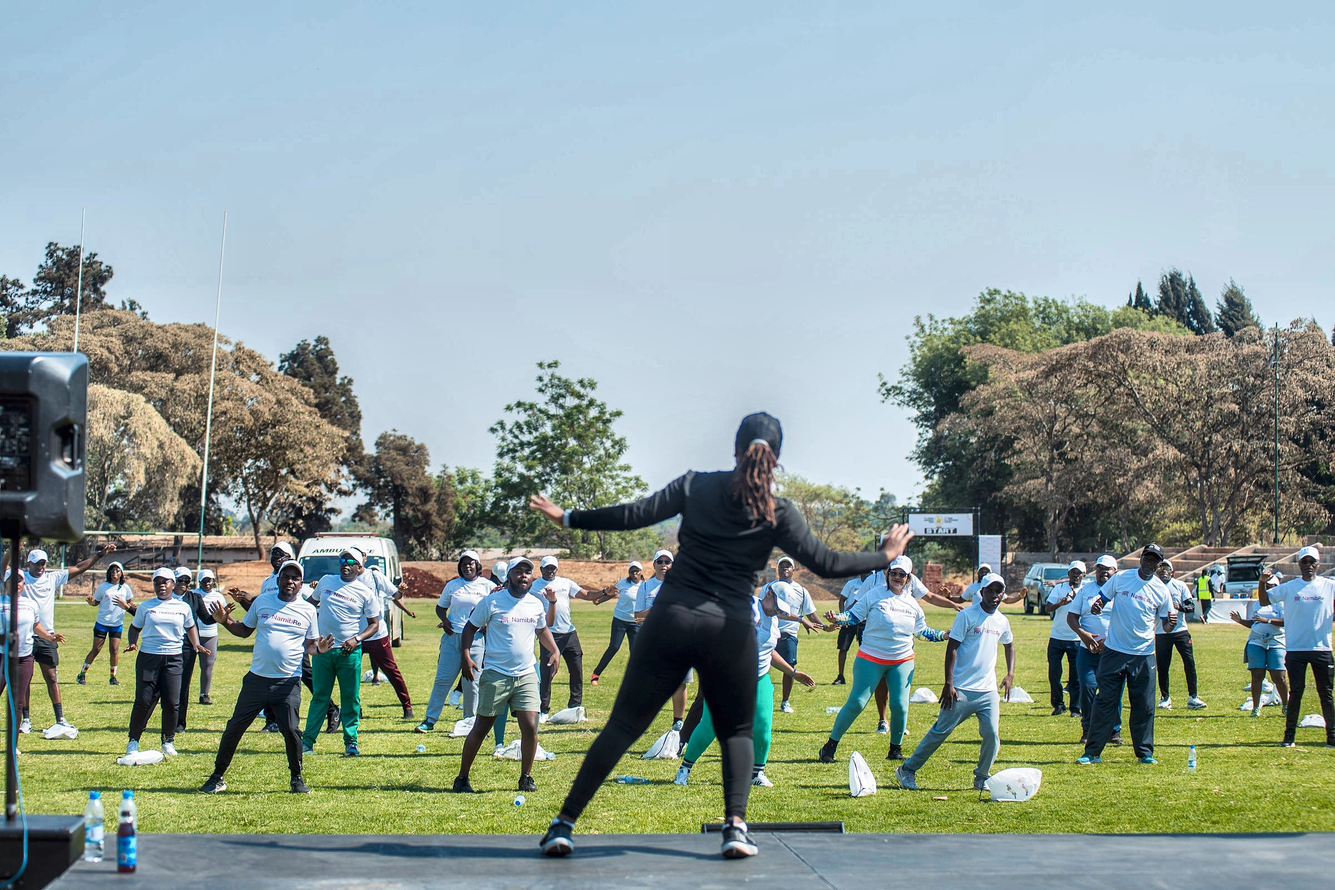
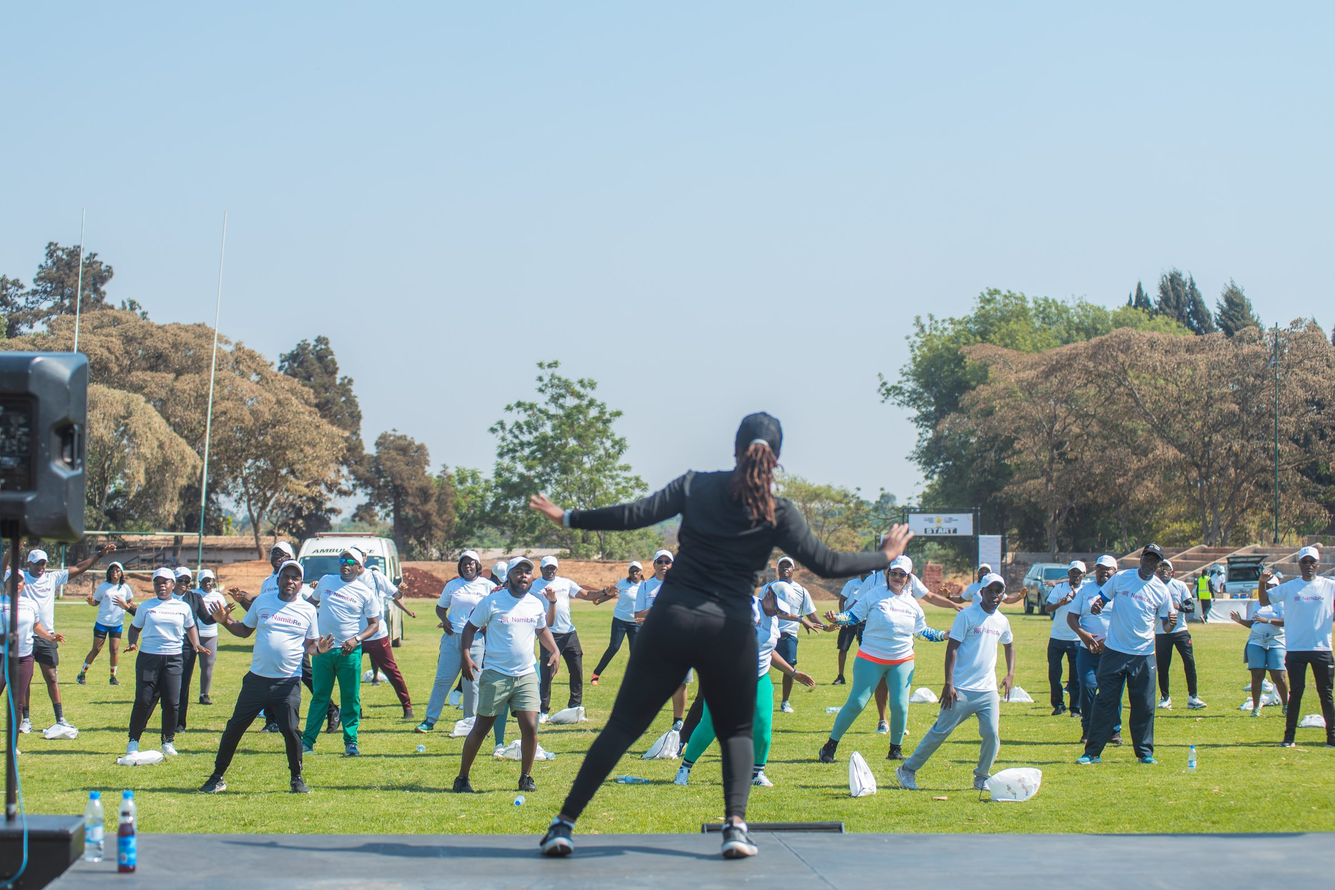
Revert the photography correction

Changed region(s): [[0.0, 0.2812, 1.0, 1.0], [0.7812, 0.9688, 0.8125, 1.0], [0.0312, 0.8125, 0.0625, 0.8438]]

diff --git a/src/content/media-manifest.ts b/src/content/media-manifest.ts
@@ -11,67 +11,46 @@ export interface ManifestEntry {
 
 export const mediaManifest: ManifestEntry[] = [
   {
-    "url": "/images/clouds (1).jpg",
-    "name": "clouds (1).jpg",
-    "folder": "",
-    "kind": "image",
-    "bytes": 1677077
-  },
-  {
-    "url": "/images/clouds (2).jpg",
-    "name": "clouds (2).jpg",
-    "folder": "",
-    "kind": "image",
-    "bytes": 1765254
-  },
-  {
-    "url": "/images/clouds (3).jpg",
-    "name": "clouds (3).jpg",
-    "folder": "",
-    "kind": "image",
-    "bytes": 1883569
-  },
-  {
     "url": "/images/events/fun-run-aerobics.jpg",
     "name": "fun-run-aerobics.jpg",
     "folder": "events",
     "kind": "image",
-    "bytes": 749418
+    "bytes": 518874
   },
   {
     "url": "/images/events/fun-run-finish.jpg",
     "name": "fun-run-finish.jpg",
     "folder": "events",
     "kind": "image",
-    "bytes": 773108
+    "bytes": 541200
   },
   {
     "url": "/images/events/fun-run-group.jpg",
     "name": "fun-run-group.jpg",
     "folder": "events",
     "kind": "image",
-    "bytes": 935660
+    "bytes": 654680
   },
   {
     "url": "/images/events/reinsurance-forum-delegates.jpg",
     "name": "reinsurance-forum-delegates.jpg",
     "folder": "events",
     "kind": "image",
-    "bytes": 847396
+    "bytes": 570173
   },
   {
     "url": "/images/events/reinsurance-forum-handshake.jpg",
     "name": "reinsurance-forum-handshake.jpg",
     "folder": "events",
     "kind": "image",
-    "bytes": 664829
+    "bytes": 454821
   },
   {
     "url": "/images/huletts/inflatable-pack.jpg",
     "name": "inflatable-pack.jpg",
     "folder": "huletts",
     "kind": "image",
-    "bytes": 290046
+    "bytes": 250374
   },
   {
     "url": "/images/icz-591/591-lockup.png",
@@ -85,7 +64,7 @@ export const mediaManifest: ManifestEntry[] = [
     "name": "ambulance-handover.jpg",
     "folder": "icz-591",
     "kind": "image",
-    "bytes": 664891
+    "bytes": 479715
   },
   {
     "url": "/images/icz-591/campaign-591.jpg",
@@ -106,7 +85,7 @@ export const mediaManifest: ManifestEntry[] = [
     "name": "launch-officials.jpg",
     "folder": "icz-591",
     "kind": "image",
-    "bytes": 554771
+    "bytes": 375727
   },
   {
     "url": "/images/icz-591/quarterly-digest.png",
@@ -120,7 +99,7 @@ export const mediaManifest: ManifestEntry[] = [
     "name": "spokespeople.jpg",
     "folder": "icz-591",
     "kind": "image",
-    "bytes": 492039
+    "bytes": 321188
   },
   {
     "url": "/images/logos/Clere for men logo-21.png",
@@ -218,56 +197,56 @@ export const mediaManifest: ManifestEntry[] = [
     "name": "eilts-amour.jpg",
     "folder": "medtech",
     "kind": "image",
-    "bytes": 320777
+    "bytes": 198806
   },
   {
     "url": "/images/medtech/eilts-enchante-macro.jpg",
     "name": "eilts-enchante-macro.jpg",
     "folder": "medtech",
     "kind": "image",
-    "bytes": 296083
+    "bytes": 190938
   },
   {
     "url": "/images/medtech/eilts-enchante.jpg",
     "name": "eilts-enchante.jpg",
     "folder": "medtech",
     "kind": "image",
-    "bytes": 434038
+    "bytes": 272128
   },
   {
     "url": "/images/medtech/eilts-grandiose.jpg",
     "name": "eilts-grandiose.jpg",
     "folder": "medtech",
     "kind": "image",
-    "bytes": 356010
+    "bytes": 215469
   },
   {
     "url": "/images/medtech/eilts-still-life.jpg",
     "name": "eilts-still-life.jpg",
     "folder": "medtech",
     "kind": "image",
-    "bytes": 282078
+    "bytes": 189780
   },
   {
     "url": "/images/medtech/retail-activation.jpg",
     "name": "retail-activation.jpg",
     "folder": "medtech",
     "kind": "image",
-    "bytes": 940130
+    "bytes": 637472
   },
   {
     "url": "/images/medtech/roadshow-promoters.jpg",
     "name": "roadshow-promoters.jpg",
     "folder": "medtech",
     "kind": "image",
-    "bytes": 936590
+    "bytes": 677251
   },
   {
     "url": "/images/medtech/roadshow-stage.jpg",
     "name": "roadshow-stage.jpg",
     "folder": "medtech",
     "kind": "image",
-    "bytes": 1042875
+    "bytes": 742132
   },
   {
     "url": "/images/medtech/satiskin-berry-fantasy.png",
@@ -309,7 +288,7 @@ export const mediaManifest: ManifestEntry[] = [
     "name": "activation-promoters.jpg",
     "folder": "opal",
     "kind": "image",
-    "bytes": 980627
+    "bytes": 685522
   },
   {
     "url": "/images/opal/logo.png",
@@ -386,7 +365,7 @@ export const mediaManifest: ManifestEntry[] = [
     "name": "sampling-gazebo.jpg",
     "folder": "silkea",
     "kind": "image",
-    "bytes": 804056
+    "bytes": 572835
   },
   {
     "url": "/images/skylake (1).jpeg",

diff --git a/public/images/README.md b/public/images/README.md
@@ -49,20 +49,3 @@ Campaign films do not belong here. Put them on YouTube or Vimeo: adaptive
 streaming plays properly on a phone on patchy data, self-hosted MP4 does not.
 Short silent loops used as texture are the exception, and should be under a
 few MB.
-
-## Correction
-
-The photography here has had one pass: a black point where the frame had
-headroom, gentle micro-contrast in luminance, and capture sharpening scaled
-down on frames that were already soft. Hues are untouched.
-
-That last part is deliberate. A normal auto-grade starts with white balance,
-which assumes the average of a scene is neutral — and these frames are
-dominated by brand colour by design, so it drags Opal's red toward orange and
-takes skin tones with it. On campaign photography the colour is the asset.
-Correct exposure and detail; leave hue alone.
-
-Packshot renders, logos and designed key visuals are excluded. They are
-approved brand artwork, not captures, and grading them moves a colour someone
-has signed off. A new photograph dropped in here can take the same pass; a new
-render should not.
